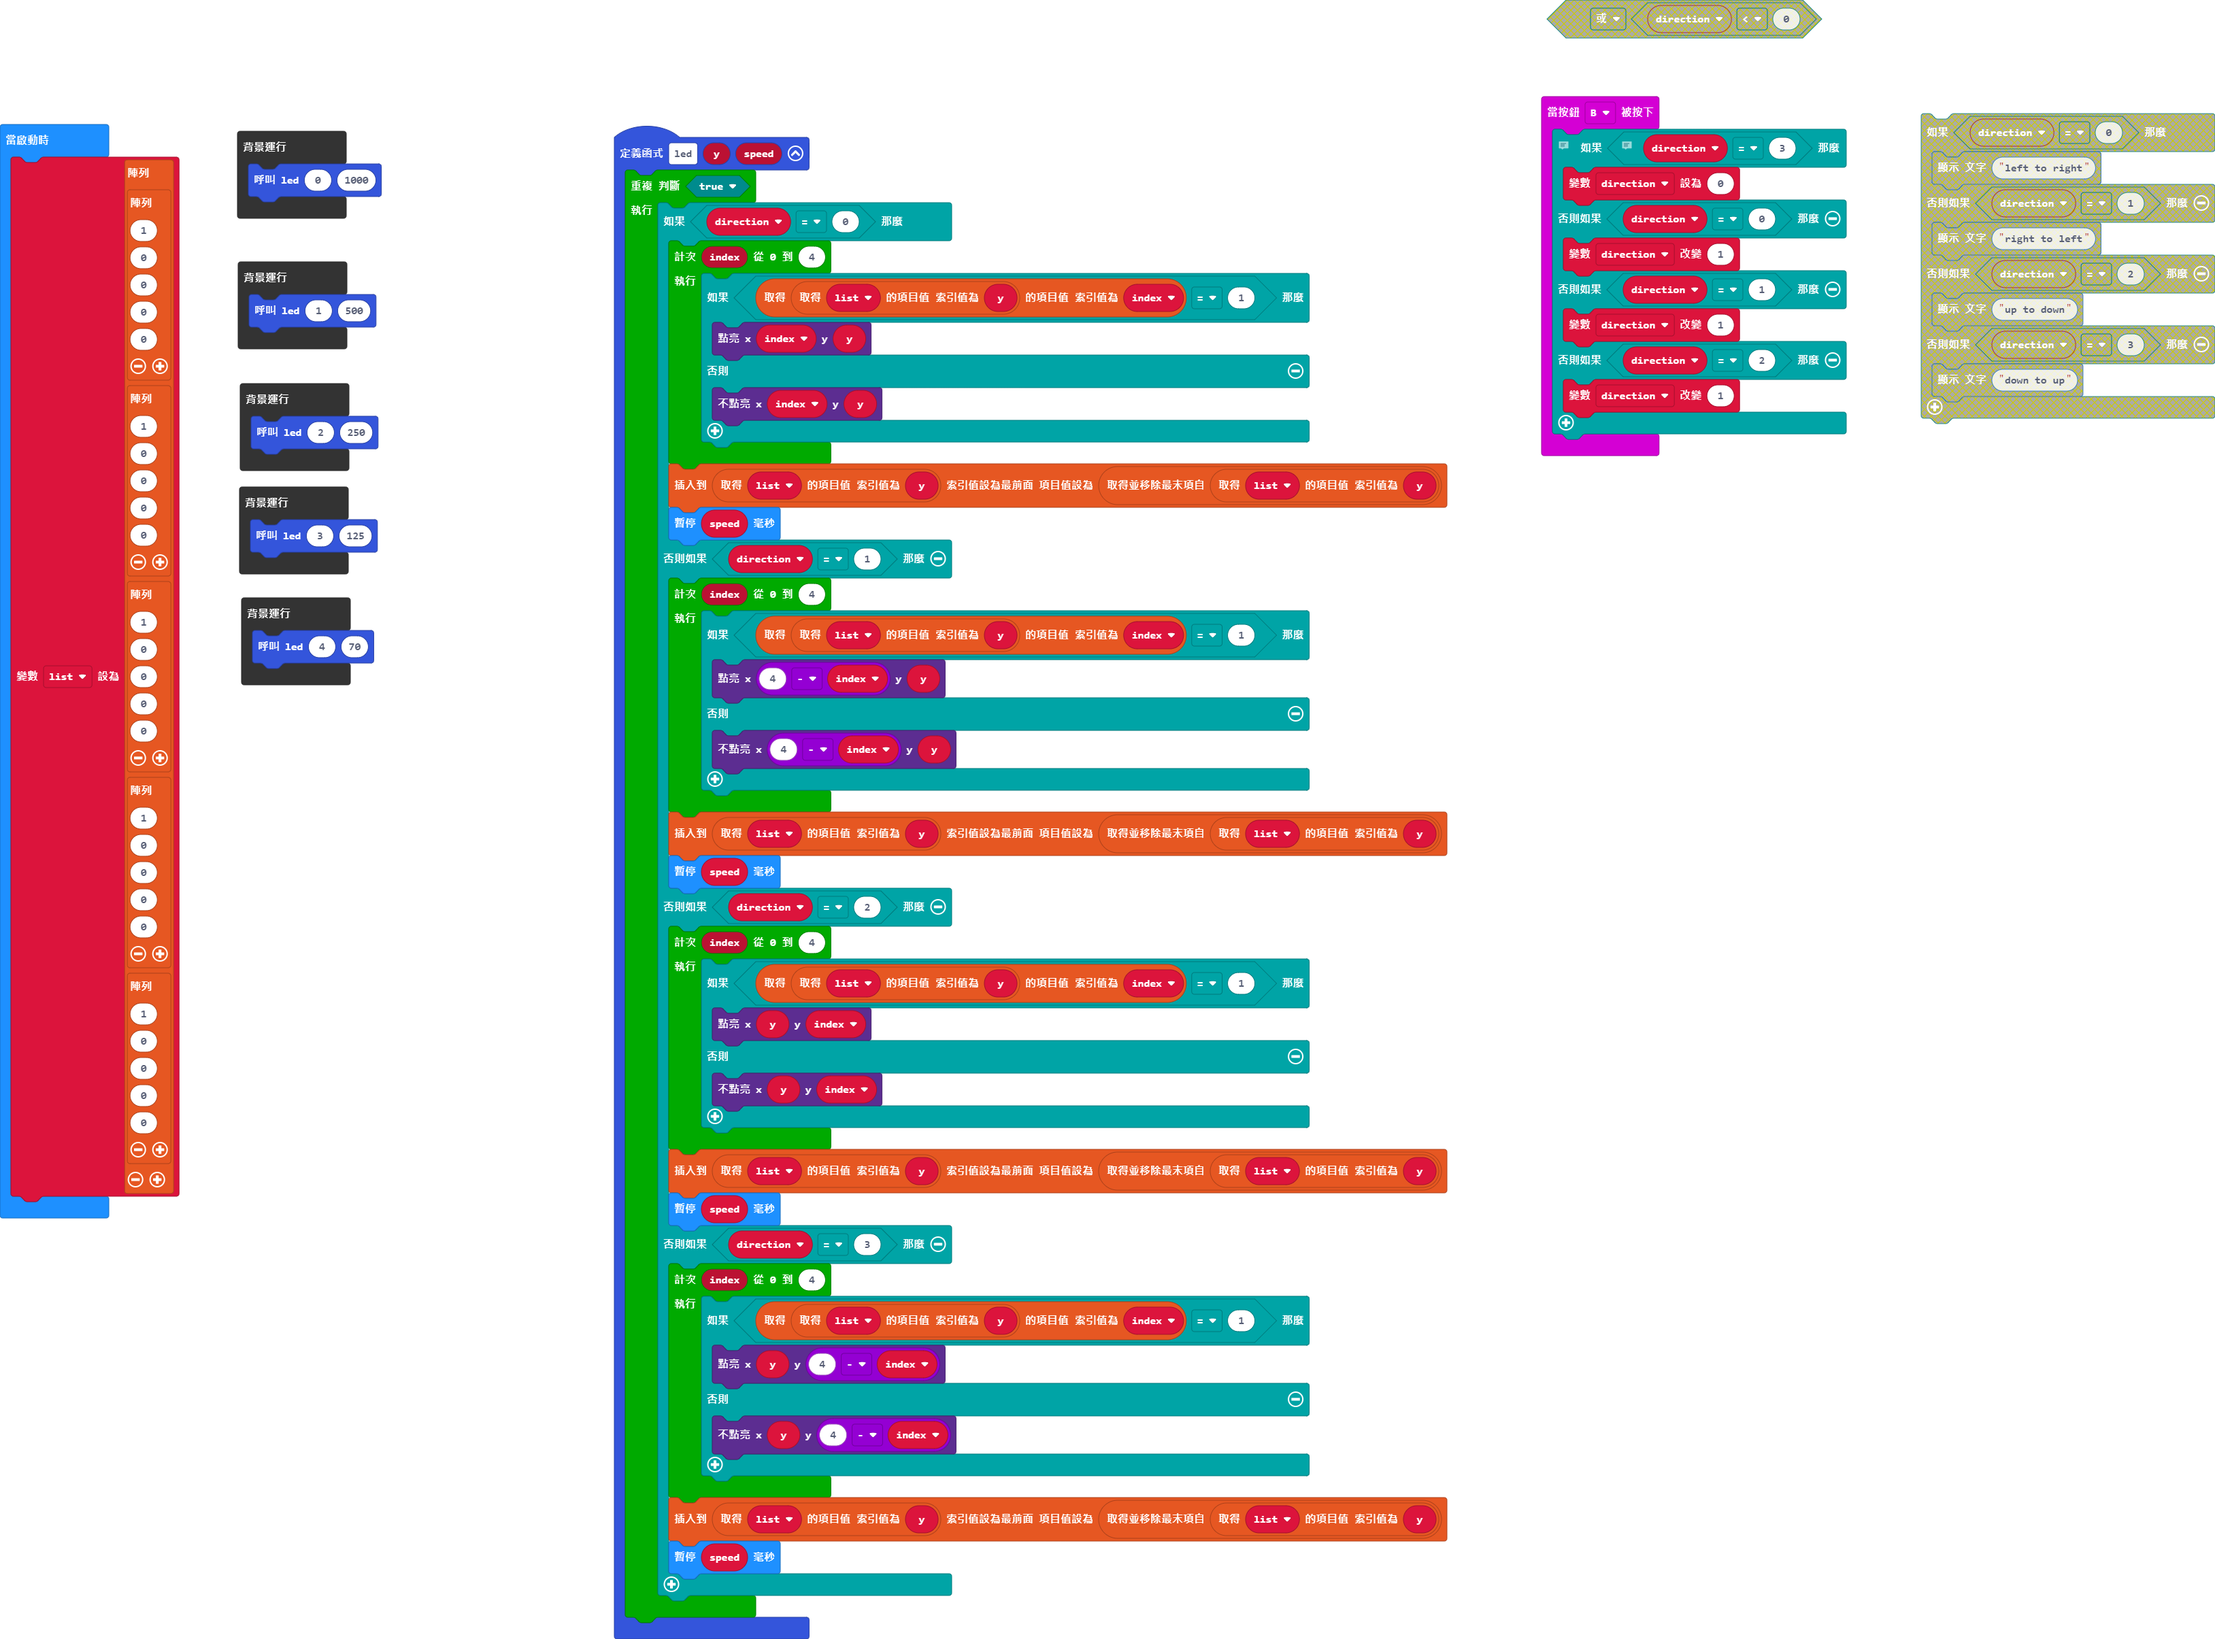
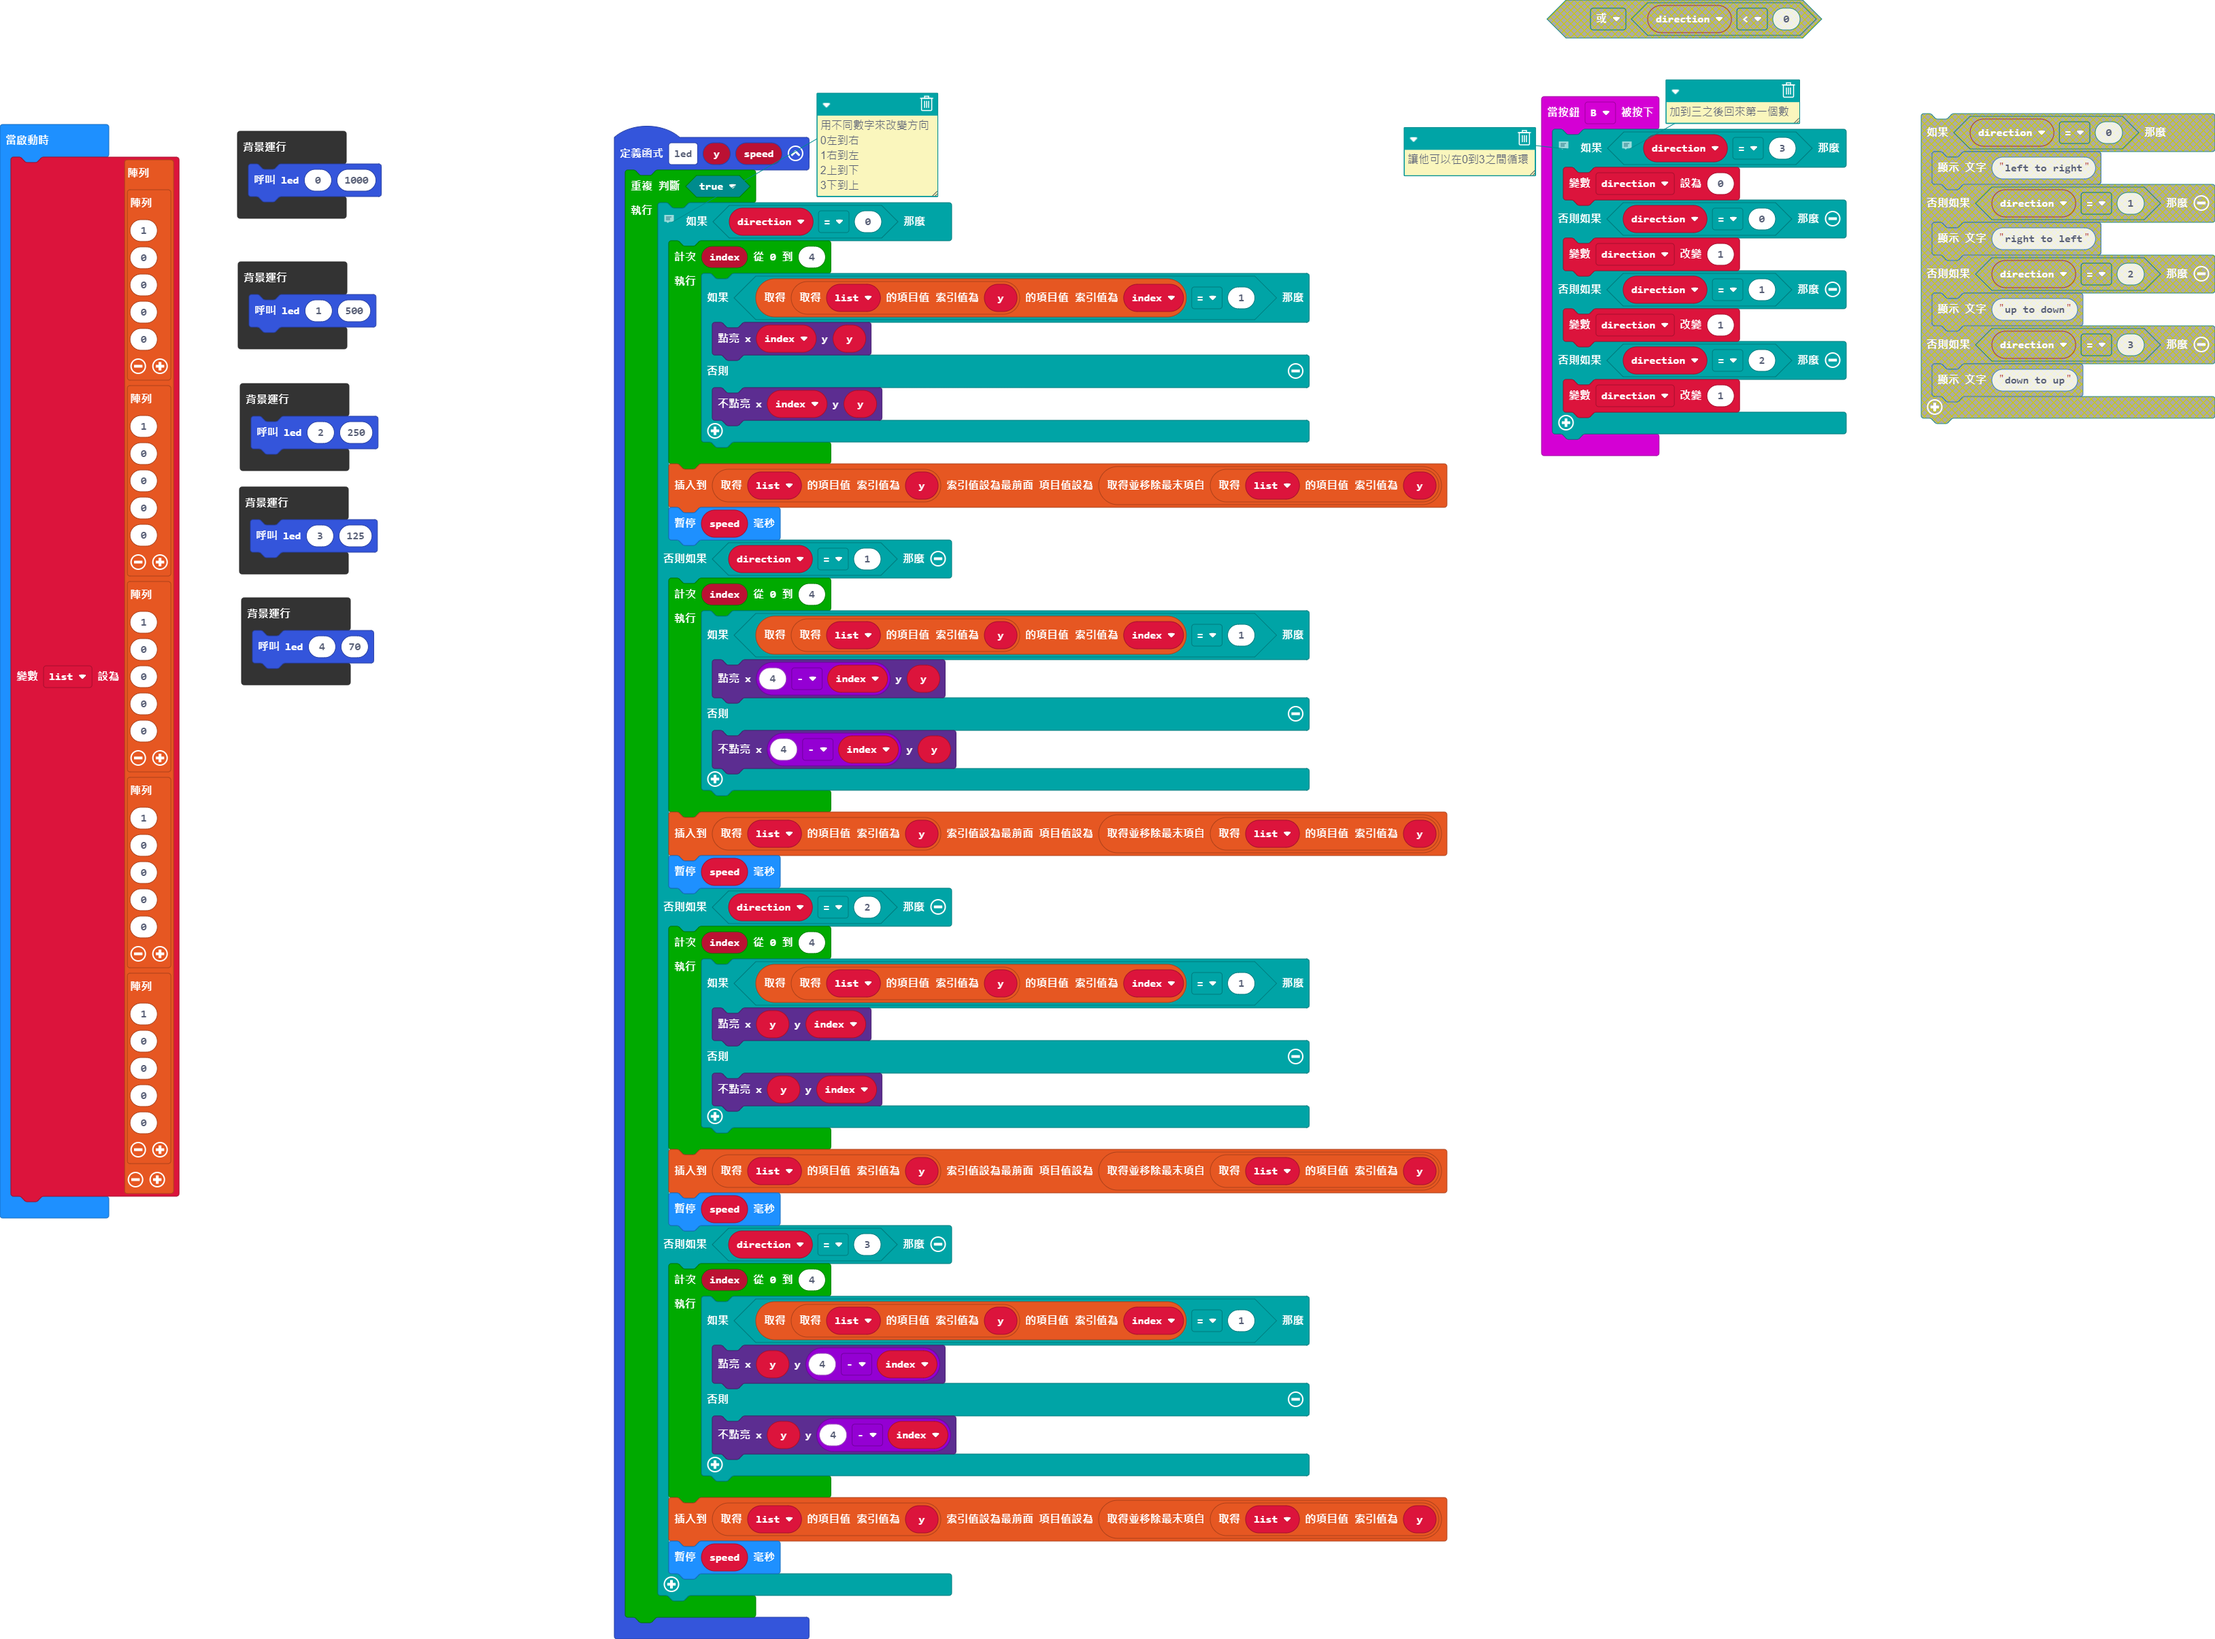
更新 main.blocks, main.ts

Changed region(s): [[0.3102, 0.0311, 0.4343, 0.1556], [0.6204, 0.0622, 0.7135, 0.1245], [0.7445, 0.0311, 0.8065, 0.0934]]

diff --git a/main.ts b/main.ts
@@ -1,5 +1,10 @@
 function led2 (y: number, speed: number) {
     while (true) {
+        // 用不同數字來改變方向
+        // 0左到右
+        // 1右到左
+        // 2上到下
+        // 3下到上
         if (direction == 0) {
             for (let index = 0; index <= 4; index++) {
                 if (list[y][index] == 1) {
